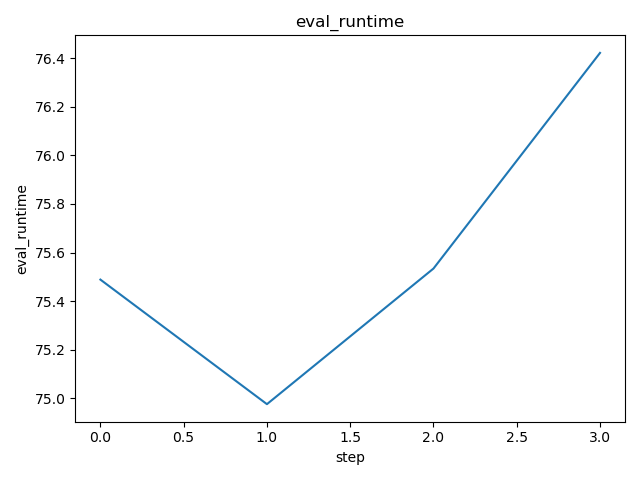
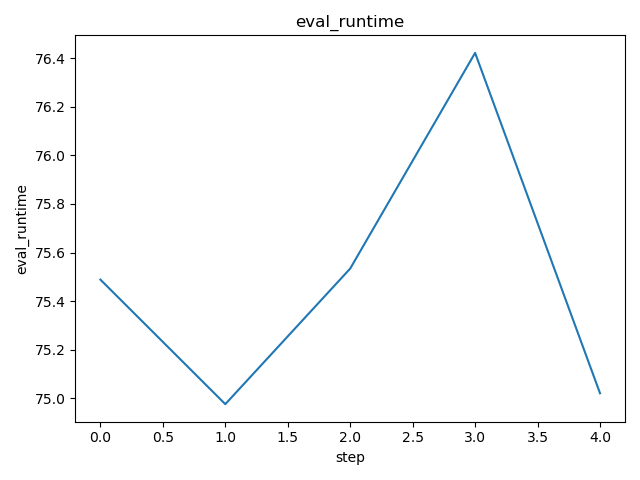
dvc: commit experiment d778ae448fc841468211ac8ca9d146c3dcc58bace47b3d0a4838250d87a140a4

diff --git a/data/ogt_protein_classifier/dvclive/report.md b/data/ogt_protein_classifier/dvclive/report.md
@@ -4,7 +4,7 @@ metrics.json
 
 |   loss |   learning_rate |   epoch |   eval_loss |   eval_f1 |   eval_accuracy |   eval_matthew |   eval_runtime |   eval_samples_per_second |   eval_steps_per_second |   step |
 |--------|-----------------|---------|-------------|-----------|-----------------|----------------|----------------|---------------------------|-------------------------|--------|
-| 0.6905 |     4.08333e-05 |     0.4 |    0.682024 |   0.64883 |        0.488511 |       0.106196 |        76.4217 |                   421.399 |                   2.198 |      3 |
+| 0.6875 |     3.83333e-05 |     0.5 |    0.672585 |  0.682137 |        0.571668 |       0.275137 |        75.0209 |                   429.267 |                   2.239 |      4 |
 
 ![static/eval_steps_per_second](static/eval_steps_per_second.png)
 
